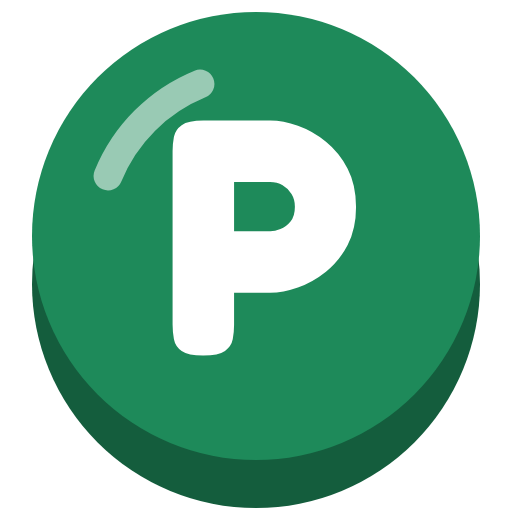
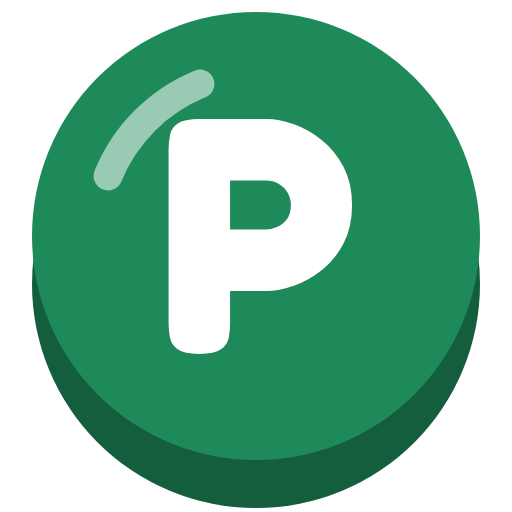
アイコンにてかりを入れて大きくする [skip ci]
小さい版にもてかりを入れ、Pを中央に寄せる。ヘッダーの表示は44pxにする。

diff --git a/scripts/generate_site.py b/scripts/generate_site.py
@@ -35,7 +35,7 @@ header h1 { font-size: 24px; }
 header h1 a { color: var(--text); text-decoration: none;
   display: inline-flex; align-items: center; gap: 8px; }
 /* ロゴは文字とほぼ同じ高さに揃える(96px画像を縮小して表示) */
-header h1 img { width: 32px; height: 32px; }
+header h1 img { width: 44px; height: 44px; }
 header p { color: var(--muted); font-size: 13px; margin-top: 4px; }
 .sites { margin-top: 10px; display: flex; gap: 8px; flex-wrap: wrap;
   align-items: baseline; }
@@ -528,7 +528,7 @@ gtag('config', '{esc(ga_id)}');
 </head>
 <body>
 <header>
-<h1><a href="./" data-google-vignette="false"><img src="assets/logo.png" alt="" width="32" height="32">{esc(CONFIG["site_title"])}</a></h1>
+<h1><a href="./" data-google-vignette="false"><img src="assets/logo.png" alt="" width="44" height="44">{esc(CONFIG["site_title"])}</a></h1>
 <p>{esc(CONFIG["site_description"])} ｜ {esc(threshold_note)} ｜ 最終更新: {updated}</p>
 </header>
 {header_ad}
